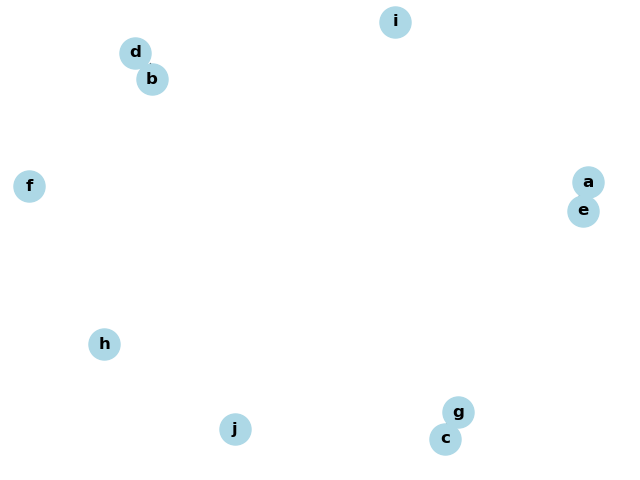
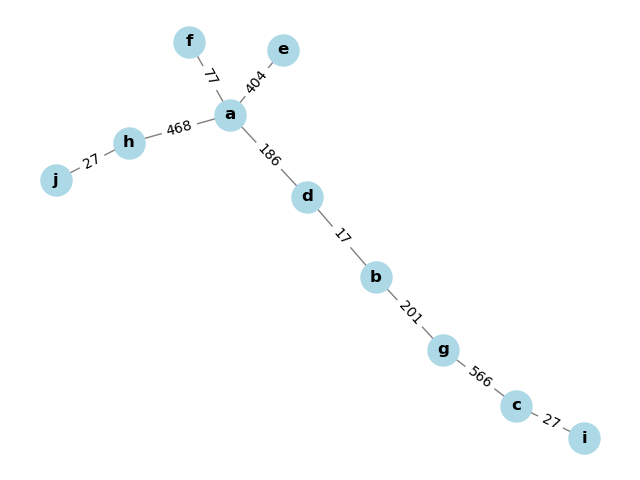
Working

diff --git a/PrimsAlgo.py b/PrimsAlgo.py
@@ -1,5 +1,7 @@
 from typing import List, Set, Tuple, Union
 
+from numpy import isinf
+
 from AdjMatrix import AdjacencyMatrix
 from Vertex import Vertex
 
@@ -26,45 +28,49 @@ def PrimsAlgorithm(
 
     allFound = False
 
-    while not allFound:
+    nonFound = [None]
+
+    while len(nonFound) > 0:
+
+        nonFound = [vertex for vertex in vertices if not vertex.found]
+
+        print(nonFound)
 
         minDistance = float("inf")
         minVertex = None
 
-        allFound = True
+        for vertex in nonFound:
 
-        for vertexNum, vertex in enumerate(vertices):
-
-            if vertex.minDistance < minDistance and not vertex.found:
+            if vertex.minDistance < minDistance:
 
                 minDistance = vertex.minDistance
                 minVertex = vertex
-                vertices[vertexNum].found = True
-
-                allFound = False
 
         if minVertex is not None:
+
+            vertices[vertices.index(minVertex)].found = True
 
             minVertexConnections = adjacencyMatrix[minVertex]
 
             for destinationName, weight in zip(
-                adjacencyMatrix.matrix.columns, minVertexConnections
+                adjacencyMatrix.columns, minVertexConnections
             ):
 
                 destination = vertices[vertices.index(Vertex(destinationName))]
 
-                distance = adjacencyMatrix[minVertex, destination]
+                if (
+                    weight < destination.minDistance
+                    and weight != 0
+                    and not isinf(weight)
+                    and not destination.found
+                ):
 
-                if distance < destination.minDistance:
-
-                    vertices[vertices.index(destination)].previous = minVertex
-                    vertices[vertices.index(destination)].minDistance = distance
+                    destination.minDistance = weight
+                    destination.previous = vertices[vertices.index(minVertex)]
 
     mstAdjancency = AdjacencyMatrix(vertices=vertices)
 
     for vertex in vertices:
-
-        print(f"Adding Edges")
 
         source = vertex.previous
         destination = vertex
@@ -73,10 +79,7 @@ def PrimsAlgorithm(
 
             continue
 
-        print(f"\n\nNOT CONTINUING\n\n")
-
         minDistance = vertex.minDistance
-        prevMinDistance = source.minDistance
 
         print(source)
 

diff --git a/AdjMatrix.py b/AdjMatrix.py
@@ -58,6 +58,15 @@ class AdjacencyMatrix:
 
         return numOutgoing
 
+    def __getattr__(self, name):
+
+        if name == "columns":
+            return self.matrix.columns
+
+        raise AttributeError(
+            f"'{self.__class__.__name__}' object has no attribute '{name}'"
+        )
+
     def GetEdge(
         self, source: Union[int, str, Vertex], destination: Union[int, str, Vertex]
     ) -> float:
